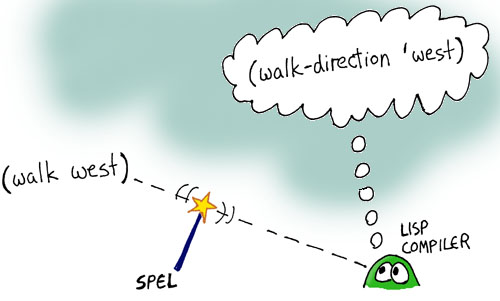
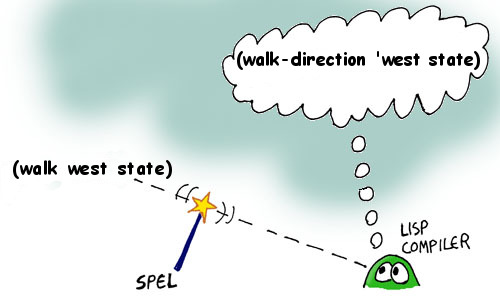
More fixes and additions.

Changed region(s): [[0.45, 0.1196, 0.96, 0.299], [0.0, 0.5083, 0.36, 0.6578]]

diff --git a/book/part6/3-interact.md b/book/part6/3-interact.md
@@ -1,6 +1,6 @@
 ## Interacting
 
-Now we'll create a command to pickup objects in our world. We'll need some helper functions for this:
+Now we'll create a command to pick up objects in our world. We'll need some helper functions for this. To help think about which helper functions we need to create, let's list the things we need to do:
 
 1. Check to see if the item we seek is present
 1. Check the object location to ``player`` for the object we seek
@@ -12,49 +12,49 @@ Now we'll create a command to pickup objects in our world. We'll need some helpe
 (defun good-pick (item-name)
   (io:format "~nYou are now carrying the ~s.~n~n"
              (list (atom_to_list item-name))))
-```
 
-```lisp
 (defun check-item
   ((item-name (= (match-object name obj-name) obj)) (when (== item-name obj-name))
     (good-pick item-name)
     (set-object-location obj 'player))
   ((_ obj) obj))
-```
 
-```lisp
 (defun update-items (item-name game-state)
   (lists:map
     (lambda (obj) (check-item item-name obj))
     (state-objects game-state)))
-```
 
-```lisp
 (defun get-item-names (game-state)
   (lists:map
     (lambda (x) (object-name x))
     (whats-here? game-state)))
-```
 
-```lisp
 (defun bad-pick ()
   (io:format "~nThat item is not here.~n~n"))
 ```
 
+That's all the helper functions we need; now for the main attraction:
 
 ```lisp
 (defun pickup-item
   ((item-name (= (match-state player player-loc objects objs) game-state))
     (case (lists:member item-name (get-item-names game-state))
           ('true
-            (set-state-objects game-state (update-items item-name game-state)))
+            (set-state-objects
+              game-state (update-items item-name game-state)))
           ('false
             (bad-pick)
-            game-state)))
-  ((_ game-state) game-state))
+            game-state))))
 ```
 
-[add description]
+Our ``pickup-item`` function takes two arguments:
+
+1. the name of an item, and
+1. the game state record
+
+But it's also doing some pattern matching: its extracting the player's current location as well as the list of objects in the game. Then it checks to see if the item passed as an argument is in present in the player's current location.
+
+![](../images/bucket_n_bottle.jpg)
 
 Now let's cast another SPEL to make the command easier to use:
 
@@ -69,21 +69,19 @@ Now let's try our new SPEL:
 > (pickup whiskey-bottle state)
 ```
 ```lisp
-
 You are now carrying the whiskey-bottle.
-
 ```
+
+Again, we're going to keep ignoring the state data that is returned with each of our commands -- we'll be taking care of that in the next chapter!
 
 ```lisp
 >  (pickup frog state)
 ```
 ```lisp
-
 That item is not here.
-
 ```
 
-Now let's add a couple more useful commands: first, a command that lets us see our current inventory of items we're carrying:
+Now let's add a couple more useful commands: first, a command that lets us see our current inventory of items we're carrying (with the obligatory helper functions first!):
 
 ```lisp
 (defun inv-obj
@@ -93,14 +91,14 @@ Now let's add a couple more useful commands: first, a command that lets us see o
         (((match-object location 'player)) 'true)
         ((_) 'false))
       objs)))
-```
 
-```lisp
 (defun inv-name (game-state)
   (lists:map
     (lambda (x) (object-name x))
     (inv-obj game-state)))
 ```
+
+Did you notice our ``inv-obj`` helper function has a ``match-lambda``? In LFE, you can even do pattern matching in *anonymous functions*!
 
 ```lisp
 (defun inv (game-state)
@@ -111,10 +109,40 @@ Now let's add a couple more useful commands: first, a command that lets us see o
   (io:format "~n"))
 ```
 
+Let's pick up the bucket and then check our inventory:
+
+```lisp
+> (set state (pickup bucket state))
+```
+```lisp
+You are now carrying the whiskey-bottle.
+```
+```lisp
+> (inv state)
+```
+```lisp
+You are carrying:
+ - bucket
+```
 
 Now a function that tells us if he have a certain object on us:
 
 ```lisp
 (defun inv? (item-name game-state)
   (lists:member item-name (inv-name game-state)))
+```
+
+Try it out:
+
+```lisp
+> (inv? 'bucket state)
+```
+```lisp
+true
+```
+```lisp
+> (inv? 'chain state)
+```
+```lisp
+false
 ```

diff --git a/book/part6/2-spels.md b/book/part6/2-spels.md
@@ -20,17 +20,14 @@ Ok, now that they're enabled, let's cast our first spell, called walk:
 (defspel walk (direction game-state)
   `(walk-direction ',direction ,game-state))
 ```
-```lisp
-()
-```
 
-What this code does is it tells the Lisp compiler that the word walk is not actually the word walk but the word walk-direction and that the word direction actually has a quote in front of it, even though we can't see it. Basically we can sneak in some special code inbetween our program and the compiler that changes our code into something else before it is compiled:
-
-[update the image below to account for the state we're passing]
+What this code does is it tells the Lisp compiler that the *atom* ``walk`` is not actually the *atom* ``walk`` but is, instead, ``walk-direction`` and that the direction actually has a quote in front of it, even though we can't see it. Basically we can sneak in some special code inbetween our program and the compiler that changes our code into something else before it is compiled:
 
 ![](../images/spel_compile.jpg)
 
-Notice how similar this function looks to the code we had written before for describe-path: In Lisp, not only do code and data look a lot identical, but code and special commands to the compiler (the SPELs) look identical as well- A very consistent and clean design! Let's try our new spell:
+Notice how similar this function looks to the code we had written before for ``describe-exit``. In Lisp, not only do code and data look a lot identical, but code and special commands to the compiler (the SPELs) look identical as well -- a very consistent and clean design!
+
+Let's try our new spell:
 
 ```lisp
 > (set state (walk east state))
@@ -42,3 +39,5 @@ You see a whiskey-bottle on the floor. You see a bucket on the floor.
 ```
 
 Much better!
+
+Wait, why ``(set state ...)``? Rmember: this is *functional programming*! We're not changing any global variables insdie functions. So if our player walks, how do we make sure that the new state created by the ``walk`` SPEL is usable for the next command? We set the output of the ``walk`` SPEL (which is the new state) to the ``state`` variable!
